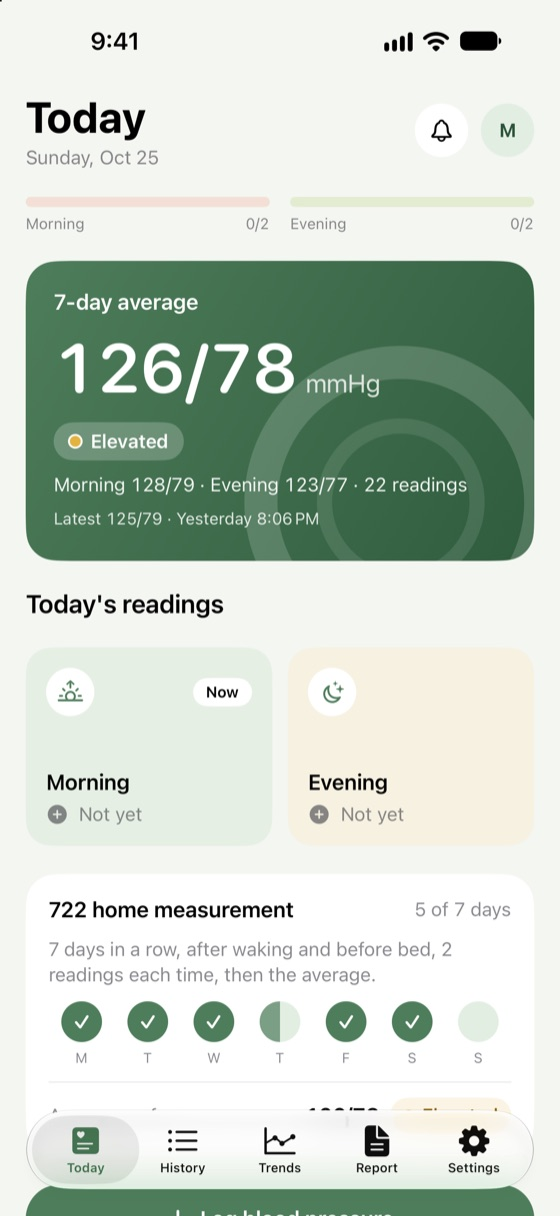
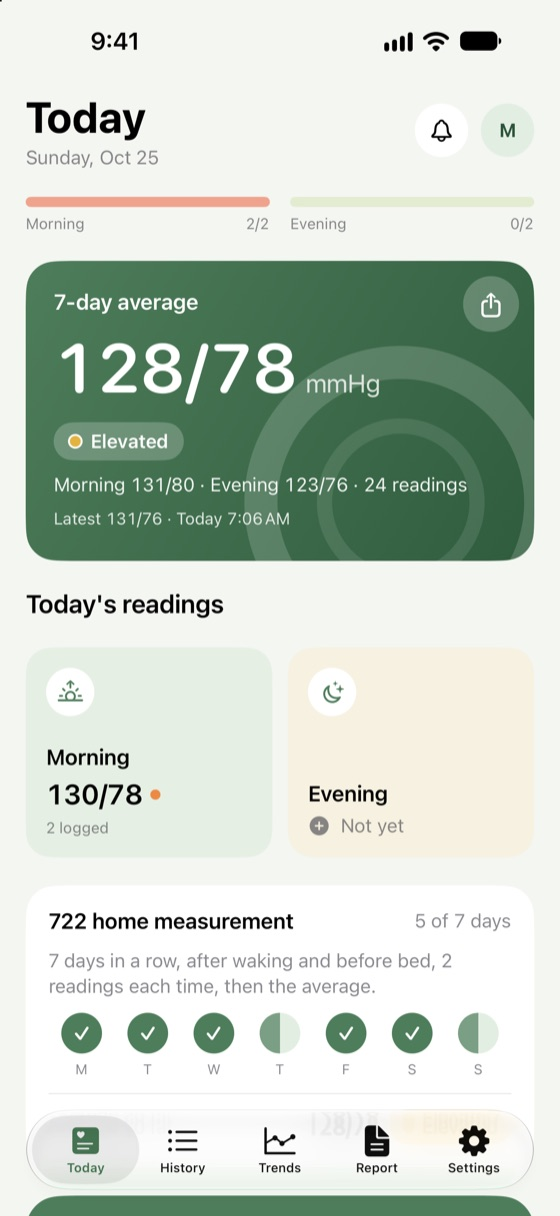
Publish bplog from app-factory 76b828c

diff --git a/bplog/ja/support/index.html b/bplog/ja/support/index.html
@@ -120,7 +120,7 @@
 <div class="plans">
 <div class="plan">
 <h3>無料</h3>
-<ul class="checks"><li>すべての記録と 722 家庭測定</li><li>直近 7 日分のグラフ・履歴・レポート</li><li>記録からのアドバイスとリマインダー 2 件</li><li>ヘルスケアとの同期</li><li>全件の CSV 書き出しとバックアップ</li></ul>
+<ul class="checks"><li>すべての記録と 722 家庭測定</li><li>直近 7 日分のグラフ・履歴・レポート</li><li>記録からのアドバイスとリマインダー 2 件</li><li>ヘルスケアとの同期</li><li>全件の CSV 書き出しとバックアップ</li><li>家族に送れるまとめの画像</li></ul>
 </div>
 <div class="plan pro">
 <h3>Pro <small>月額または年額</small></h3>
@@ -137,6 +137,7 @@
 <details><summary>このアプリで血圧は測れますか？</summary><p>測れません。iPhone では血圧を測れないため、お手持ちの血圧計で測って、その数値を本アプリに記録してください。血圧計のアプリがヘルスケアに保存する場合は、本アプリが自動で取り込みます。</p></details>
 <details><summary>血圧計の値を自動で取り込むには？</summary><p>血圧計のアプリでヘルスケアへの書き込みをオンにしてから、本アプリの「設定」>「Apple ヘルスケア」で連携してください。以後、ヘルスケアに保存された血圧が自動で本アプリに表示されます。</p></details>
 <details><summary>Siri で記録できますか？</summary><p>できます。Siri に「血圧記録帳で血圧を記録」と話しかけると、最高血圧と最低血圧をたずね、保存したあと区分を読み上げます。180/120 以上のときは、取るべき行動も読み上げます。記録を追加するには iPhone のロックを解除してください。「ショートカット」App にも「血圧を記録」アクションがあります。</p></details>
+<details><summary>家族に血圧を見せるには？</summary><p>「今日」の「7日間の平均」カード右上の共有ボタンを押すと、直近 7 日を 1 枚の「血圧のまとめ」画像にします。LINE やメッセージで家族に送ったり、写真に保存したりできます。画像は iPhone の中で作られ、あなたが選んだ送り先にだけ送られます。</p></details>
 <details><summary>区分が医師の説明と違うのはなぜですか？</summary><p>本アプリはお住まいの国の公開ガイドラインに沿って区分し、「設定」>「基準」で変更できます。医師はあなたの状態全体を見て目標を決めるので、医師の指示を優先してください。医師から言われた目標値をアプリに設定することもできます。</p></details>
 <details><summary>機種変更でデータを移すには？</summary><p>iCloud バックアップやコンピュータへのバックアップで iPhone を移行すれば、データも移ります。「設定」>「書き出しとバックアップ」>「バックアップファイルを書き出す」で書き出し、新しい iPhone で「バックアップファイルから復元」することもできます。</p></details>
 <details><summary>アラームが鳴りません</summary><p>アラームによるリマインダーには iOS 26.1 以降が必要で、iPhone の「設定」> 血圧記録帳 でアラームのスケジュールを許可する必要があります。許可していない場合は通知でお知らせします。その時間帯を記録済みの日は鳴りません。</p></details>

diff --git a/bplog/en/support/index.html b/bplog/en/support/index.html
@@ -120,7 +120,7 @@
 <div class="plans">
 <div class="plan">
 <h3>Free</h3>
-<ul class="checks"><li>Log every reading, and 722</li><li>The last 7 days: charts, history and report</li><li>Suggestions from your readings, two reminders</li><li>Apple Health sync</li><li>CSV export and backups of everything</li></ul>
+<ul class="checks"><li>Log every reading, and 722</li><li>The last 7 days: charts, history and report</li><li>Suggestions from your readings, two reminders</li><li>Apple Health sync</li><li>CSV export and backups of everything</li><li>A summary picture to share with family</li></ul>
 </div>
 <div class="plan pro">
 <h3>Pro <small>Monthly or yearly</small></h3>
@@ -137,6 +137,7 @@
 <details><summary>Does the app measure blood pressure?</summary><p>No. An iPhone can't measure blood pressure. Measure with your own monitor and log the numbers in the app, or let your monitor's app save them to Apple Health and they'll come in by themselves.</p></details>
 <details><summary>How do readings from my monitor come in automatically?</summary><p>Turn on writing to Health in your monitor's own app, then connect in Settings &gt; Apple Health in this app. From then on, blood pressure saved to Health shows up in the app by itself.</p></details>
 <details><summary>Can I log with Siri?</summary><p>Yes. Say "Hey Siri, log blood pressure in BP Notebook": Siri asks for the top and bottom numbers, saves the reading and tells you its level, and what to do right away at 180/120 or more. Your iPhone needs to be unlocked to add a reading. The Shortcuts app has a Log blood pressure action too.</p></details>
+<details><summary>How do I show my readings to family?</summary><p>Tap share on the 7-day average card on Today. The app turns the last 7 days into one "Blood pressure summary" picture you can send by Messages or any app, or save to Photos. The picture is made on your iPhone and goes only where you send it.</p></details>
 <details><summary>Why is my level different from what my doctor said?</summary><p>The app uses the published guideline for your country, which you can change in Settings &gt; Standard. Your doctor sets targets for you personally, so follow your doctor's advice; you can also set the target your doctor gave you in the app.</p></details>
 <details><summary>How do I move my readings to a new iPhone?</summary><p>They move with your iPhone when you transfer it using iCloud Backup or a computer backup. You can also use Settings &gt; Export and backup &gt; Export backup file, then Restore from backup file on the new iPhone.</p></details>
 <details><summary>My alarm reminder didn't ring</summary><p>Alarm reminders need iOS 26.1 or later, and the app must be allowed to schedule alarms in Settings &gt; BP Notebook. Without that, reminders come as notifications. Once you've logged that time of day, it stays quiet that day.</p></details>

diff --git a/bplog/zh-Hant/support/index.html b/bplog/zh-Hant/support/index.html
@@ -120,7 +120,7 @@
 <div class="plans">
 <div class="plan">
 <h3>免費</h3>
-<ul class="checks"><li>記錄每一筆、722 居家量測</li><li>最近 7 天的趨勢、紀錄和報告</li><li>依紀錄給的建議、兩個提醒</li><li>與 Apple 健康同步</li><li>包含全部紀錄的 CSV 匯出與備份</li></ul>
+<ul class="checks"><li>記錄每一筆、722 居家量測</li><li>最近 7 天的趨勢、紀錄和報告</li><li>依紀錄給的建議、兩個提醒</li><li>與 Apple 健康同步</li><li>包含全部紀錄的 CSV 匯出與備份</li><li>分享摘要圖給家人</li></ul>
 </div>
 <div class="plan pro">
 <h3>Pro <small>按月或按年訂閱</small></h3>
@@ -137,6 +137,7 @@
 <details><summary>本 App 會量血壓嗎？</summary><p>不會。iPhone 沒辦法量血壓，請用你自己的血壓計量，再把數字記到本 App；或讓血壓計的 App 把數值存進「健康」，本 App 會自動帶進來。</p></details>
 <details><summary>怎麼讓血壓計的數值自動進來？</summary><p>先在血壓計自己的 App 開啟寫入「健康」，再到本 App「設定」>「Apple 健康」連接。之後存進「健康」的血壓會自動出現在本 App。</p></details>
 <details><summary>可以用 Siri 記錄嗎？</summary><p>可以。對 Siri 說「用血壓紀錄簿記錄血壓」，Siri 會問收縮壓和舒張壓，存好後唸出分級；量到 180/120 以上，會唸出該怎麼做。要先解鎖 iPhone 才能新增紀錄。「捷徑」App 裡也有「記錄血壓」動作。</p></details>
+<details><summary>怎麼把血壓給家人看？</summary><p>在「今天」頁「7 天平均」卡片右上角按分享，App 會把最近 7 天整理成一張「血壓摘要」圖，可以用 LINE、訊息傳給家人，或存到照片。圖是在你的 iPhone 上做的，只會送到你選的地方。</p></details>
 <details><summary>為什麼分級和醫師說的不一樣？</summary><p>本 App 依你所在國家的公開指引分級，可以在「設定」>「標準」更換。醫師會依你的整體狀況給你目標，請以醫師的建議為準；你也可以在 App 裡設定醫師給你的目標線。</p></details>
 <details><summary>換新手機，資料怎麼帶過去？</summary><p>用 iCloud 備份或電腦備份移轉 iPhone 時，資料會一起過去。也可以在「設定」>「匯出與備份」>「匯出備份檔」，再到新手機用「從備份檔還原」。</p></details>
 <details><summary>鬧鐘提醒沒有響？</summary><p>鬧鐘提醒需要 iOS 26.1 以上，並在 iPhone「設定」> 血壓紀錄簿 允許排程鬧鐘；不允許時會改用通知。當天那個時段已經記過，就不會再提醒。</p></details>

diff --git a/bplog/ja/privacy/index.html b/bplog/ja/privacy/index.html
@@ -52,6 +52,7 @@
 
 <h2>レポート、書き出し、共有</h2>
 <p>PDF レポート、CSV、バックアップファイルは iPhone の中で作られます。送信されるのは、あなたが自分で共有したときだけで、送り先はあなたが決めます。送信後の取り扱いは受け取った側に従います。</p>
+<p>「血圧のまとめ」画像も iPhone の中で作られ、共有したときだけ送られます。写真に保存するときは、iOS が写真への追加の許可をたずねます。本アプリは画像を追加するだけで、写真を読み取ることはありません。</p>
 
 <h2>購入</h2>
 <p>Pro のサブスクリプションは Apple が処理し、私たちがあなたの氏名、支払い情報、Apple Account を受け取ることはありません。本アプリは Pro をお持ちかどうかを Apple に確認するだけです。購入データの扱いについては Apple のプライバシーポリシーをご覧ください。</p>

diff --git a/bplog/en/privacy/index.html b/bplog/en/privacy/index.html
@@ -52,6 +52,7 @@
 
 <h2>Reports, exports and sharing</h2>
 <p>PDF reports, CSV files and backup files are made on your iPhone. They leave it only when you share them yourself, with whoever you choose; after that, the recipient's own practices apply.</p>
+<p>The "Blood pressure summary" picture is also made on your iPhone and leaves it only when you share it. Saving it to Photos asks for permission to add photos; the app only adds that picture and never reads your photos.</p>
 
 <h2>Purchases</h2>
 <p>Apple handles Pro subscriptions. We never receive your name, payment details or Apple Account. The app only asks Apple whether you have Pro. Apple's privacy policy explains how Apple handles purchase data.</p>

diff --git a/bplog/zh-Hant/privacy/index.html b/bplog/zh-Hant/privacy/index.html
@@ -52,6 +52,7 @@
 
 <h2>報告、匯出和分享</h2>
 <p>PDF 報告、CSV 和備份檔都在你的 iPhone 上產生。只有你自己按下分享時才會送出，送給誰由你決定；送出之後，依接收者的方式處理。</p>
+<p>「血壓摘要」圖也是在 iPhone 上產生，只有你按分享時才會送出。存到「照片」時，iOS 會詢問能否加入照片；本 App 只會加入這張圖，不會讀取你的照片。</p>
 
 <h2>購買</h2>
 <p>Pro 的訂閱由 Apple 處理，我們拿不到你的姓名、付款資料或 Apple 帳號。本 App 只向 Apple 確認你是否擁有 Pro。Apple 如何處理購買資料，請見 Apple 的隱私權政策。</p>
